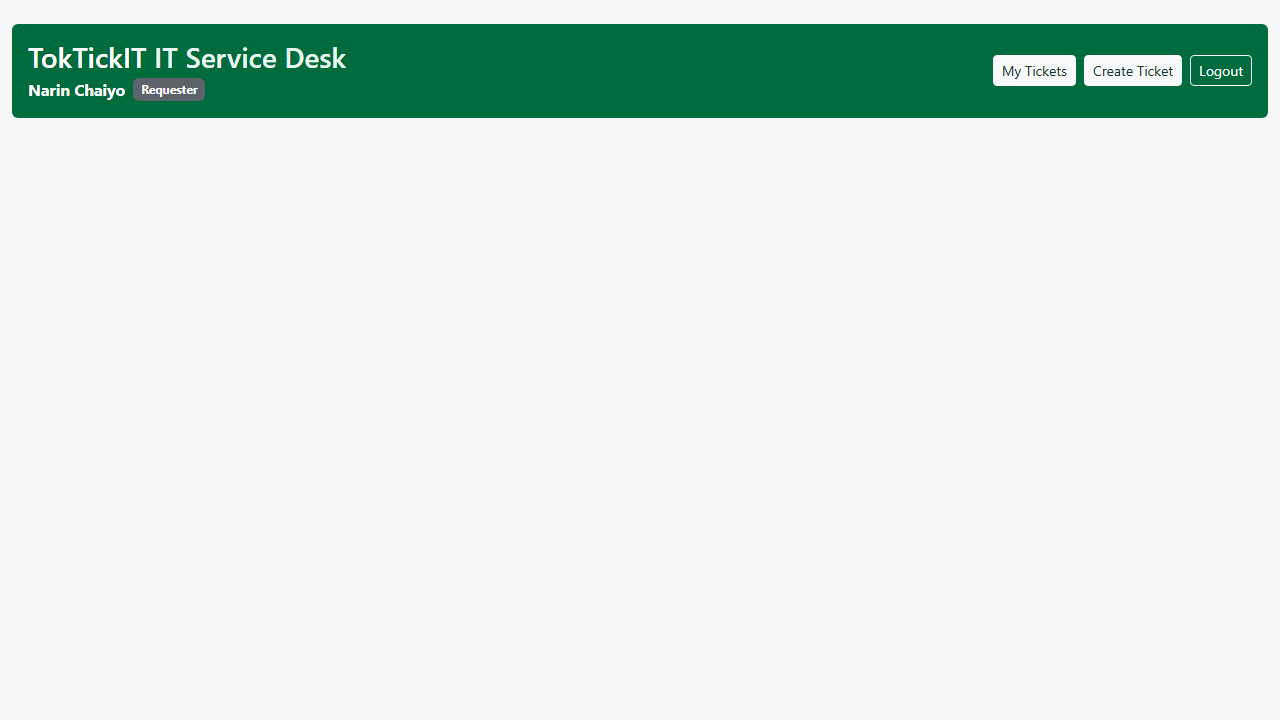
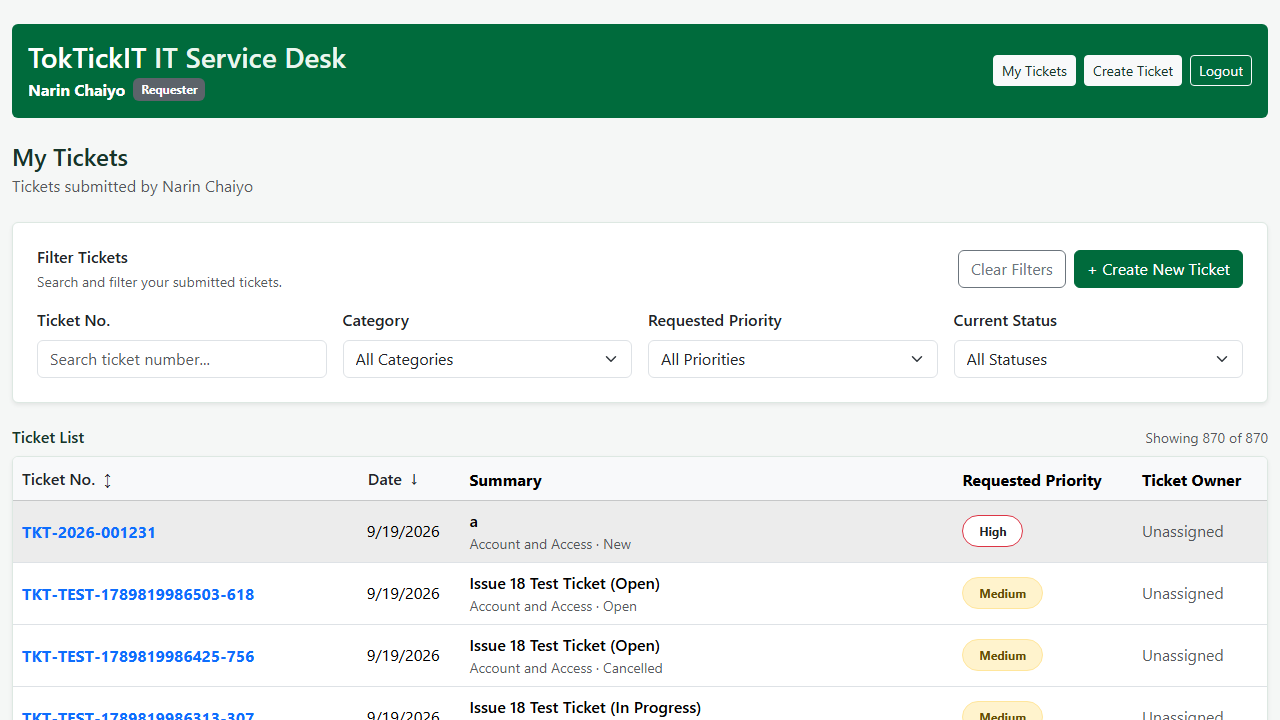
fix(lab-03): restore requester ticket flow

diff --git a/e2e/lab-03/staff-ticket-flow.spec.ts b/e2e/lab-03/staff-ticket-flow.spec.ts
@@ -1,4 +1,5 @@
 import { expect, test } from "@playwright/test";
+import path from "node:path";
 
 test("staff can open the ticket queue", async ({ page }) => {
   await page.goto("/");
@@ -7,4 +8,26 @@ test("staff can open the ticket queue", async ({ page }) => {
   await page.locator("form").getByRole("button", { name: /^sign in$/i }).click();
   await expect(page.getByRole("heading", { name: /it staff ticket queue/i })).toBeVisible();
   await expect(page.getByLabel(/search/i)).toBeVisible();
+});
+
+test("captures the authenticated requester interface", async ({ page }, testInfo) => {
+  await page.goto("/");
+  await page.getByLabel(/email address/i).fill("narin.chaiyo@example.com");
+  await page.getByLabel(/^password$/i).fill("Password123!");
+  await page.locator("form").getByRole("button", { name: /^sign in$/i }).click();
+
+  await expect(page.getByRole("heading", { name: /my tickets/i })).toBeVisible();
+  await expect(page.getByText(/loading tickets/i)).toBeHidden();
+
+  await page.screenshot({
+    path: path.join(
+      testInfo.config.rootDir,
+      "..",
+      "artifacts",
+      "lab-03",
+      "screenshots",
+      "staff-ticket-detail",
+      `requester-interface-${testInfo.project.name}.png`,
+    ),
+  });
 });

diff --git a/client/src/api.ts b/client/src/api.ts
@@ -136,7 +136,9 @@ export interface ReferenceItem {
 }
 
 export async function getCategories(): Promise<ReferenceItem[]> {
-  const response = await fetch(`${API_URL}/api/categories`);
+  const response = await fetch(`${API_URL}/api/categories`, {
+    credentials: "include",
+  });
 
   if (!response.ok) {
     throw new Error("Failed to fetch categories.");
@@ -146,7 +148,9 @@ export async function getCategories(): Promise<ReferenceItem[]> {
 }
 
 export async function getRelatedSystems(): Promise<ReferenceItem[]> {
-  const response = await fetch(`${API_URL}/api/related-systems`);
+  const response = await fetch(`${API_URL}/api/related-systems`, {
+    credentials: "include",
+  });
 
   if (!response.ok) {
     throw new Error("Failed to fetch related systems.");
@@ -156,7 +160,9 @@ export async function getRelatedSystems(): Promise<ReferenceItem[]> {
 }
 
 export async function getPriorities(): Promise<ReferenceItem[]> {
-  const response = await fetch(`${API_URL}/api/priorities`);
+  const response = await fetch(`${API_URL}/api/priorities`, {
+    credentials: "include",
+  });
 
   if (!response.ok) {
     throw new Error("Failed to fetch priorities.");

diff --git a/client/src/App.tsx b/client/src/App.tsx
@@ -4,7 +4,6 @@ import {
   useRequester,
 } from "./context/RequesterContext";
 import { AuthProvider, useAuth } from "./context/AuthContext";
-import RequesterSelection from "./pages/RequesterSelection";
 import CreateTicket from "./pages/CreateTicket";
 import MyTickets from "./pages/MyTickets";
 import TicketDetail from "./pages/TicketDetail";
@@ -65,8 +64,19 @@ function AppContent() {
   }
 
   useEffect(() => {
+    if (user?.role === "REQUESTER") {
+      setSelectedRequester({
+        id: user.id,
+        fullName: user.name,
+        email: user.email,
+        isActive: true,
+      });
+    } else {
+      setSelectedRequester(null);
+    }
+
     if (user && !user.mustChangePassword && page === "home") setPage(primaryPage());
-  }, [user]);
+  }, [user, page, setSelectedRequester]);
 
   function handleOpenTicket(ticketId: number) {
     setSelectedTicketId(ticketId);
